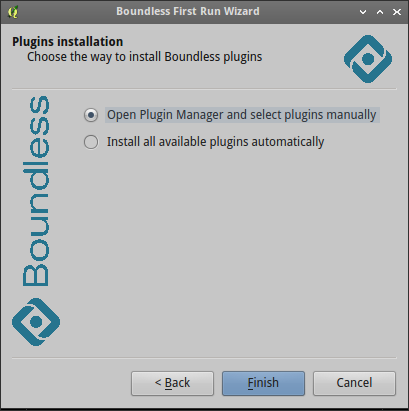
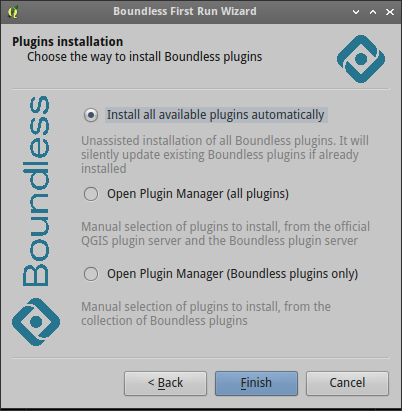
add documentation about newly added features: pre-run check and updating plugins, handling deprecated plugins

diff --git a/boundlessconnect/utils.py b/boundlessconnect/utils.py
@@ -128,7 +128,6 @@ def initPluginManager(installer, boundlessOnly=False):
 
         plugins.mPlugins.update(localPlugins.all())
 
-
     if boundlessOnly:
         for pluginName, pluginDesc in plugins.mPlugins.items():
             if not isBoundlessPlugin(pluginDesc):

diff --git a/docs/source/usage.rst b/docs/source/usage.rst
@@ -1,26 +1,50 @@
 Using Boundless Connect
 =======================
 
+When QGIS started for the first time with activated Boundless Connect plugin
+(it activated by default in Boundless Desktop) it checks are there Boundless
+plugins or not. Then depending on result of this check one of the following
+scenaries activated:
+
+* no Boundless plugins found or only some of them installed.
+  Boundelss Connect will start *First Run* wizard to help user setup
+  Boundless Plugins Repository and install additional plugins. See
+  `First Run wizard`_ section for more details.
+* all Boundless plugins found and all of them have latest version. User will be
+  notified that no additional actions are required.
+* all Boundless plugins found but some of them are outdated.
+  Boundless Connect will propose user to update plugins automatically. See
+  `Updating plugins`_ section for more details.
+
 First Run wizard
 ----------------
 
-When QGIS started for the first time with activated Boundless Connect plugin
-(it activated by default in Boundless Desktop) the *First Run* wizard will be
-shown.
+The aim of the *First Run* wizard is to help user to set up Boundless Plugins
+Repository and install additional plugins, both Boundless and 3rd party (if
+configured by sysadmin).
 
-.. figure:: img/welcome-page.png
-   :align: center
-
-The aim of the wizard is to help user to set up Boundless Plugins Repository
-and install additional plugins, both Boundless and 3rd party (if configured by
-sysadmin).
+This wizard started automatically every time when Boundless Connect plugin
+updated or QGIS started for the first time with Boundless Connect activated.
 
 If you don't want to go through wizard now, you can safely close it. While
 wizard started automatically only once, at first QGIS run, you can open it at
 any time from menu *Plugins → Boundless Connect → First Run wizard*.
 
 The first wizard page contains general information about wizard and what it
-will do. Read it and press *Next* button to go to the next page.
+will do.
+
+.. figure:: img/welcome-page.png
+   :align: center
+
+If you have installed unsupported Boundless plugins (plugins which were
+replaced with other plugins, e.g. OpenGeo Explorer which is now replaced with
+GeoServer Explorer) these plugins will be listed at the welcome page with
+suggestion to replace them with new plugins.
+
+.. figure:: img/welcome-page-deprecated.png
+   :align: center
+
+Read information on this page and press *Next* button to go to the next page.
 
 At this step *First Run* wizard behaves slightly different, depending on the
 Boundless Connect configuration.
@@ -34,16 +58,36 @@ will ask you to enter credentials used to access repository, as shown below.
 If plugin was configured to use local directory-based repository, this step is
 skipped.
 
-And then user can install all Boundless plugins from QGIS Official plugin as
-well as all available to him plugins from Boundless repository automatically or
-start QGIS *Plugin Manager* to select and install only required plugins
-manually.
+And then user can install all Boundless plugins from QGIS Official Plugins
+Repository as well as all available to him plugins from Boundless Plugins
+Repository automatically or start QGIS *Plugin Manager* to select and install
+only required plugins manually. There is also option to start QGIS
+*Plugin Manager* only with Boundless plugins, to simplify installation of
+Boundless plugins.
 
 .. figure:: img/plugins-page.png
    :align: center
 
+*NOTE*: deprecated Boundless plugins will not be installed automatically. But
+if you already have such plugins installed and there are new versions
+available --- they will be updated.
+
 After this Boundless Connect will install additional plugins, if it was
 configured to do this by sysadmin.
+
+Updating plugins
+----------------
+
+If during first run Boundless Connect found that all Boundless plugins installed
+but some of them are outdated, it will propose you to update plugins
+automatically:
+
+.. figure:: img/ask-update.png
+   :align: center
+
+If you press *Yes* button, all installed Boundless plugins will be updated
+automatically. If *No* button pressed nothing happens and you always can update
+plugins manually using QGIS *Plugin Manager*.
 
 Managing plugins
 ----------------
@@ -66,7 +110,7 @@ Installing plugin from package
 ..............................
 
 If you have a plugin package (e.g. downloaded from any repository or GutHub)
-you can easily install it using *Boundless Connect*. Just go to the menu
+you can easily install it using Boundless Connect. Just go to the menu
 *Plugins → Boundless Connect → Installing plugin from ZIP*, browse to the
 directory with plugin package and select corresponding file. If this package
 is a valid QGIS plugin package it will be installed and activated.
@@ -77,7 +121,7 @@ Manager* from *Plugins → Manage and Install Plugins...* menu.
 Working with local repository
 -----------------------------
 
-If plugins repository specified as path, *Boundless Connect* plugin will create
+If plugins repository specified as path, Boundless Connect plugin will create
 additional menu entry in *Plugins → Boundless Connect* menu called
 *Manage plugins (local folder)*. This menu entry should be used when user wants
 to install plugins from Boundless local (directory-based) repository.

diff --git a/docs/source/intro.rst b/docs/source/intro.rst
@@ -2,8 +2,8 @@ General information
 ===================
 
 The main goal of Boundless Connect plugin --- help users with setting up
-Boundless Plugin Repository and make it easier to them plugins and their
-components.
+Boundless Plugin Repository and make it easier to them install plugins and
+their components.
 
 Boundless Connect plugin is the only the one "core" plugin shipped with our
 QGIS builds. It acts as "gateway" for all Boundless stuff like plugins,
